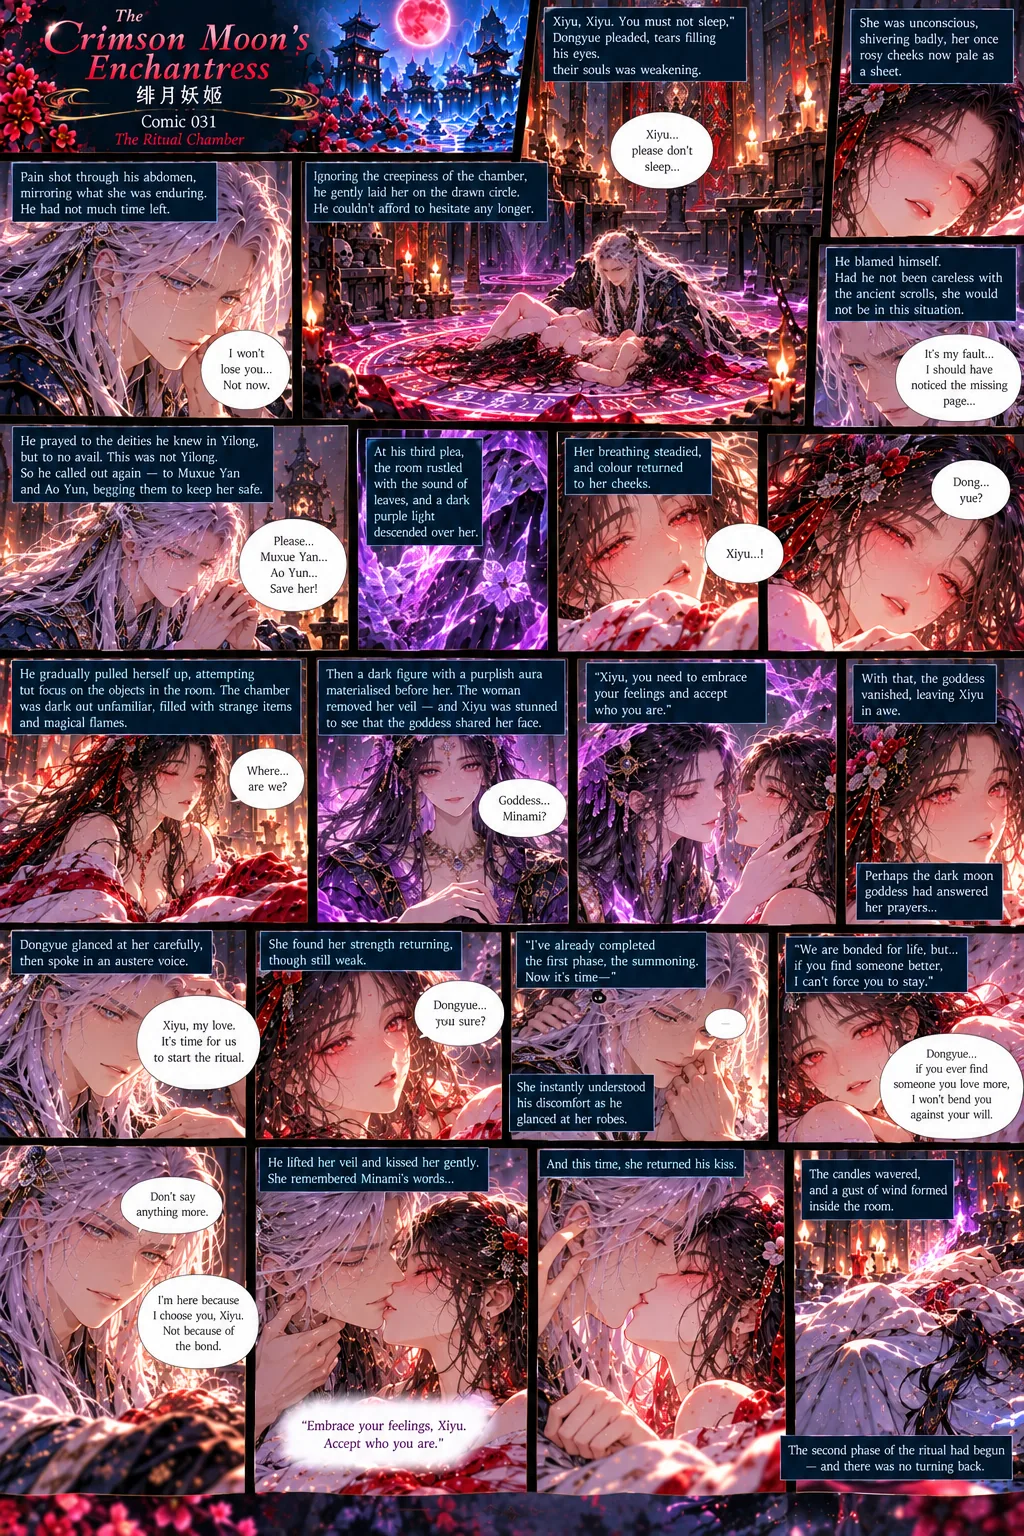
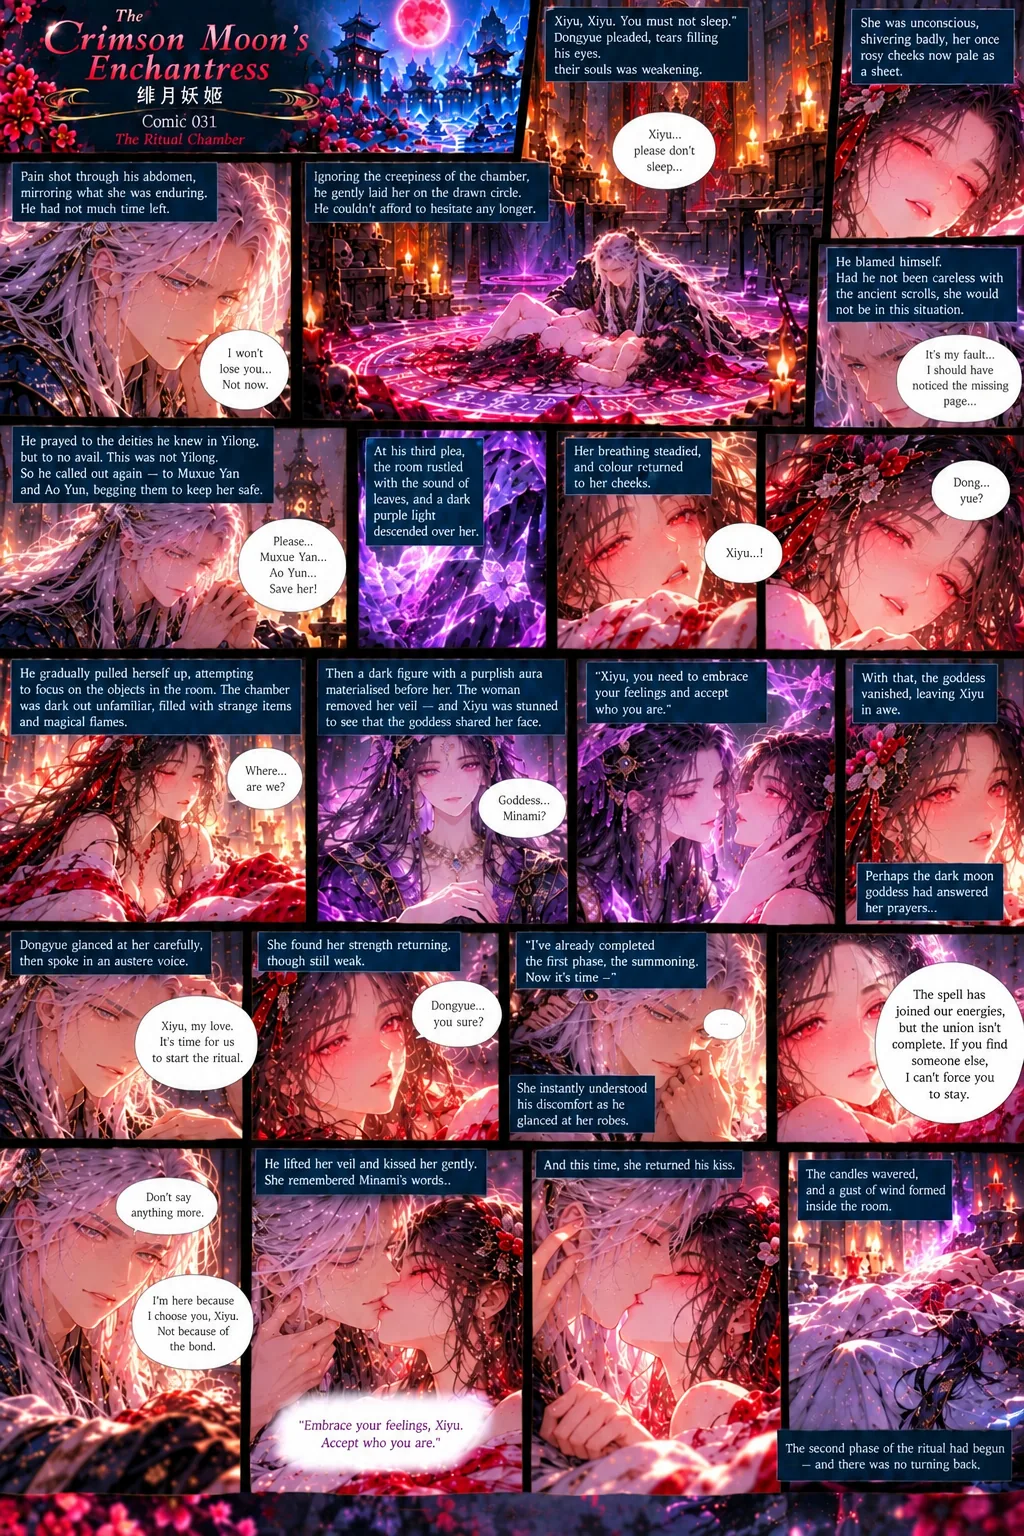
Install the edited comic 031 and record Dongyue's misunderstanding of the bond
- ch31 art replaced with the author's edit (Xiyu: the union isn't complete)
- hooks xiyu_knows_union_incomplete / dongyue_believes_bonded_for_life; Bonds panel row; docs

Claude-Session: https://claude.ai/code/session_01XEYzSJa6dBuS74MycM45Hs

diff --git a/scripts/chapters.js b/scripts/chapters.js
@@ -130,7 +130,7 @@ const CHAPTER_DESIGN = {
   events:['Xiyu\'s dream of the baby.','Dongyue meets Yan.','The Bonds of Life.','The ritual chamber and the book Dark Fear.','Yan watches through the mystic mirror.'],
   chars:['xiyu','dongyue','yan'], intro:[], unlocks:['Story: the ritual is found','Temple: Ao Yun\'s ritual chamber (not on the map labels)']},
  31:{title:'The Ritual Chamber', book:'—', loc:'The Ice Temple · the ritual chamber',
-  sum:'Dongyue lays Xiyu, shivering and pale, on the drawn circle and begs the deities, then Muxue Yan and Ao Yun, to save her. A dark purple light descends and her breathing steadies. A veiled dark figure appears with Xiyu\'s own face: the goddess Minami, who says "You need to embrace your feelings and accept who you are." Dongyue says the first phase, the summoning, is done and it is time for the ritual; Xiyu says she will not force him to stay if he finds someone better; he answers "I\'m here because I choose you, Xiyu. Not because of the bond." They kiss and the second phase begins.',
+  sum:'Dongyue lays Xiyu, shivering and pale, on the drawn circle and begs the deities, then Muxue Yan and Ao Yun, to save her. A dark purple light descends and her breathing steadies. A veiled dark figure appears with Xiyu\'s own face: the goddess Minami, who says "You need to embrace your feelings and accept who you are." Dongyue says the first phase, the summoning, is done and it is time for the ritual. Xiyu, who has read the scroll, tells him "The spell has joined our energies, but the union isn\'t complete. If you find someone else, I can\'t force you to stay"; he, who does not understand the bond and believes they are bonded for life, answers "I\'m here because I choose you, Xiyu. Not because of the bond." They kiss and the second phase begins.',
   events:['The first (summoning) phase is complete.','Minami appears with Xiyu\'s face.','"I choose you. Not because of the bond."','The second phase begins.'],
   chars:['xiyu','dongyue'], intro:['Minami (appears in person)'], unlocks:[]},
  32:{title:'Embracing Her Feelings', book:'—', loc:'The Ice Temple',

diff --git a/scripts/ui.js b/scripts/ui.js
@@ -46,7 +46,7 @@ function rParty(){
 function bondsHtml(){
   const dongyue = hook('dongyue_vows_lifelong_devotion'), cang = G.party.includes('cangyuan'), L = resLv();
   const row = (a,b) => `<div class="sm" style="display:flex;justify-content:space-between;gap:8px;padding:2px 0;border-bottom:1px solid rgba(212,168,67,.1)"><span>${a}</span><span>${b}</span></div>`;
-  const dy = G.ch>=20 ? row('Ancient bond-spell (ch20)','cast · she feels his emotions')+row('Life-saving ritual','complete (ch32)')+row('Everlasting union / permanent soul bond','<b>not established</b>')+row('Muxue wedding ceremony',dongyue?(G.ch>=40?'ceremonial only: no papers filed':'held (ch35)'):'—')
+  const dy = G.ch>=20 ? row('Ancient bond-spell (ch20)','cast · she feels his emotions')+row('Life-saving ritual','complete (ch32)')+row('Everlasting union / permanent soul bond','<b>not established</b>')+(G.ch>=31 ? row('What Dongyue believes','they are bonded for life (he does not understand the bond)') : '')+row('Muxue wedding ceremony',dongyue?(G.ch>=40?'ceremonial only: no papers filed':'held (ch35)'):'—')
          +row('Moonlit Bonding', bondingPaused() ? 'paused: she asked for space' : bondingOpen() ? 'open' : 'closed') : '<div class="sm">Not yet.</div>';
   const cg = !cang ? '<div class="sm">Not met as a companion yet.</div>' : row('Crimson Thread Resonance',L+'/'+RES_MAX)+row('Dual cultivation', dualCultivationOpen() ? 'open (her choice)' : 'closed until Xiyu chooses it')+row('Permanent soul bond / marriage','none');
   const benefits = L>0 ? `<div class="sm" style="margin-top:4px">With Cangyuan beside her: paired techniques cost ${5*L}% less MP · her heat gain −${Math.round((.25+.05*L)*100)}% · his Steady cools +${5*L} more · she deals +${8*L}% to barriers, layers and linked foes${L>=2?' · senses severe disturbances':''}${L>=3?' · Thread-Breaker Formation':''}.</div>` : '';

diff --git a/scripts/hooks.js b/scripts/hooks.js
@@ -1105,6 +1105,20 @@ const HOOKS = {
 "t": "state",
 "p": false,
 "s": "hooks"
+},
+{
+"id": "xiyu_knows_union_incomplete",
+"d": "Xiyu tells him the spell joined their energies but the union is not complete (author-edited page)",
+"t": "state",
+"p": false,
+"s": "author"
+},
+{
+"id": "dongyue_believes_bonded_for_life",
+"d": "Dongyue does not understand the bond and believes they are bonded for life (author-confirmed)",
+"t": "state",
+"p": false,
+"s": "author"
 }
 ],
 "32": [

diff --git a/tools/build_hooks.py b/tools/build_hooks.py
@@ -52,6 +52,7 @@ ADD={
      A('xiyu_sees_yan_memory_of_infant','Yan\'s memory: she realises he is her father and she may be Muxue Yunxi, the infant frozen in time',s='art')],
  36:[A('xiao_tian_true_name_feng_xia','He is Feng Xia, not the childish Xiao Tian',s='art')],
  38:[A('anong_yamon_pureblooded_demons_revealed','Anong and Yamon are purebloods whose appetite for torture and experimentation is worse than imagined',s='art'),A('dongyue_hurt_by_withheld_truth','Dongyue is hurt that Xiyu kept the matter from him, but he is not leaving',s='art'),A('yan_decides_to_return_to_muxue','Yan calls an emergency assembly: return to Muxue at once; he will seal the temple',s='art')],
+ 31:[A('xiyu_knows_union_incomplete','Xiyu tells him the spell joined their energies but the union is not complete (author-edited page)','state',s='author'),A('dongyue_believes_bonded_for_life','Dongyue does not understand the bond and believes they are bonded for life (author-confirmed)','state',s='author')],
  26:[A('white_robed_group_flees_from_xiyu','White-robed priests with polar bears and white wolves flee when they recognise Xiyu'),
      A('glass_enclosure_broken','Xiyu breaks the glass enclosure with magic'),
      A('hoko_rescued','Hoko, an explorer of Luiterra trapped for about a month, is freed'),

diff --git a/docs/BOND_SYSTEM.md b/docs/BOND_SYSTEM.md
@@ -30,5 +30,8 @@ Implemented (mechanics are proposals, tunable):
 3. **Marriage — RESOLVED by the author:** the Muxue wedding was **ceremonial, not a binding union**. Back in Muxue **no papers were filed**, so it stayed something **Yan did for his daughter to make her happy**. Implemented: the Bonds panel reads "ceremonial only: no papers filed" from Volume 2 (hook `wedding_ceremonial_no_papers_filed`, ch 40). Dongyue calling himself her husband stays as dialogue. (Original conflict: comics 034–035 show a Muxue wedding ceremony (shaman, joss sticks, vows, Yan: "the marriage of my successor"), 036 and 039 say "husband/wife", and the hook file has `muxue_wedding_ceremony_started`. Your canon says no formal marriage. The game shows "Muxue wedding ceremony held (ch 35)" and **"permanent soul bond: not established"**. Is the ceremony a ceremonial/political marriage that is not a binding union? Tell me the wording.
 4. The Moonlit Bonding (my earlier mechanic, opens after the ch 35 wedding) is **intimacy** in your terms. It stays paused; say if it should be renamed or removed, given "dual cultivation ≠ intimacy".
 
+## Dongyue's misunderstanding (author, confirmed)
+Dongyue did not really understand the bond, so he believes they are **bonded for life** (his lines in comics 031–033 stay as belief). Xiyu, who read the scroll, knows the union is incomplete. Comic 031 was edited by the author: Xiyu now says "The spell has joined our energies, but the union isn't complete. If you find someone else, I can't force you to stay." Installed as `assets/comics/ch31.webp`; hooks `xiyu_knows_union_incomplete` and `dongyue_believes_bonded_for_life` (ch 31). Remaining narrator captions that state the bond as fact: **038** ("bound by a soul, a marriage and a shared future") and **039** ("The bond joined their souls"): soften to belief or Dongyue's point of view ("they believed") or leave, since Dongyue's belief is now the point.
+
 ## Not built
 The formal deeper rite, any romance or intimacy mechanic for Cangyuan, comics showing their first kiss or encounter, and Xining's relationships. Resonance is capped at 5 until Volume 2's story is known.
